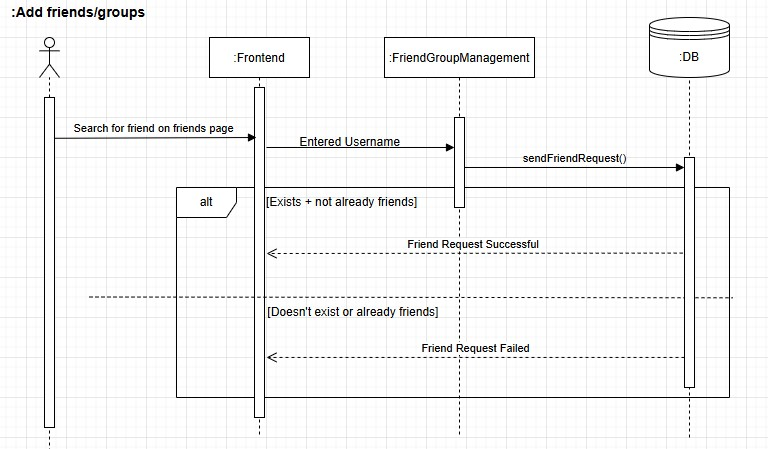
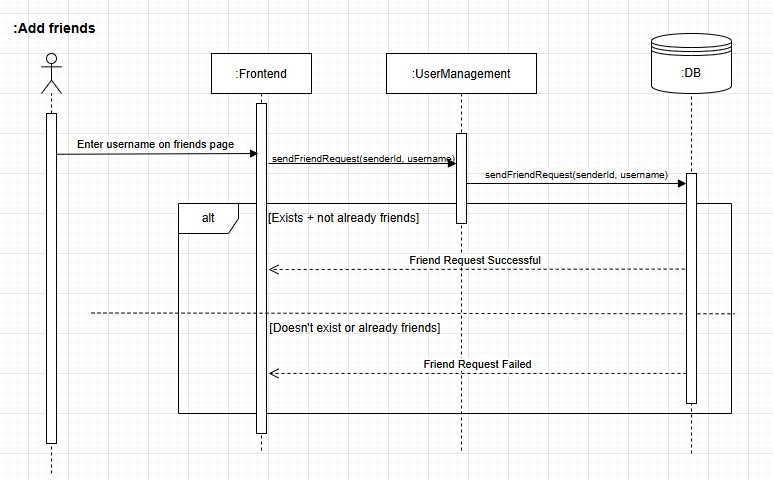
Updated documentation

diff --git a/documentation/M3_Requirements_and_Design.md b/documentation/M3_Requirements_and_Design.md
@@ -10,6 +10,10 @@
 | 2025-03-02 | 4.5 Dependencies Diagram | Changed component dependencies| Merged SessionsDB and UserDB into one DB for the entire system |
 | 2025-03-02 | 4.6 Functional Requirements Sequence Diagrams | Authentication sequence diagrams added | Log In and Sign Out sequence diagrams were added |
 |2025-03-15 | 3.5 Non-Functional Requirements | Added new non-functional requirements | Added new non-functional requirements for performance, reliability, and error recovery |
+|2025-03-30 | 3.1 Use Case Diagram | Use Case diagram modified | Corrected diagram to separate Manage Groups and Friends use case |
+|2025-03-30 | 4.1  Main Components | Modified Interfaces | Updated the interfaces to better align with implementation |
+|2025-03-30 | 4.5 Dependencies Diagram | Dependencies Diagram modified | Corrected diagram to only have Group Management |
+|2025-03-30 | 4.6 Functional Requirements Sequence Diagrams | Modified a few sequence diagrams | Modified a few sequence diagrams for Manage Sessions, Manage Friends, and Manage Groups use cases to better align with the updated components and interfaces |
 
 ## 2. Project Description
 
@@ -401,8 +405,8 @@ Study Wimme targets university students who seek a collaborative study environme
 
 ### **4.1. Main Components**
 
-1. **UserManagement**
-   - **Purpose**: Handles user authentication and profile management
+1. **User Management**
+   - **Purpose**: Handles profile management and user's friends list.
    - **Interfaces**:
      1. `UserID createProfile(UserDTO)` 
         - **Purpose**: Creates a new user profile
@@ -412,24 +416,27 @@ Study Wimme targets university students who seek a collaborative study environme
         - **Purpose**: Deletes the user’s profile
      4. `User viewProfile(UserID)` 
         - **Purpose**: Views the user’s profile
-2. **FriendGroupManagement**
-   - **Purpose**: Handles creation, modification, and deletion of groups. It also manages users' friends list
-   - **Interfaces**:
-     1. `void sendFriendRequest(SenderID, ReceiverID)` 
+     5. `void sendFriendRequest(SenderID, ReceiverID)` 
         - **Purpose**: Send friend request to another user
-     2. `void decideFriendRequest(Decision, SenderID, ReceiverID)` 
+     6. `void handleFriend(Decision, SenderID, ReceiverID)` 
         - **Purpose**: Adds user to friends list if accepted, otherwise remove the friend request
-     3. `List<Friend> getFriends(UserID)` 
+     7. `List<User> getFriends(UserID)` 
         - **Purpose**: Get all friends for user
-     4. `void deleteFriend(UserID, FriendID)` 
-        - **Purpose**: Delete a friend that the user has selected
-     5. `void createGroup(UserID, List<UserId> members)` 
-        - **Purpose**: Create a group using the friends user has selected
-     6. `void editGroup(UserID, GroupID, List<UserID> newGroupMembers)` 
+     8. `List<User> getFriendRequests(UserID)` 
+        - **Purpose**: Get all friend requests for user
+     9. `void removeFriend(UserID, FriendID)` 
+        - **Purpose**: Remove a friend that the user has selected
+
+2. **Group Management**
+   - **Purpose**: Handles the creation, modification, and deletion of groups.
+   - **Interfaces**:
+     1. `GroupID createGroup(UserID, name)` 
+        - **Purpose**: Create a group using the given group name
+     2. `void editGroup(GroupID, List<UserID> members)` 
         - **Purpose**: Make changes to an existing group
-     7. `void deleteGroup(UserID, GroupID)` 
+     3. `void deleteGroup(GroupID)` 
         - **Purpose**: Delete a preexisting group
-     8. `List<Group> getGroups(UserID)` 
+     4. `List<Group> getGroups(UserID)` 
         - **Purpose**: Get all groups made by that user
 
 3. **Session**
@@ -437,21 +444,15 @@ Study Wimme targets university students who seek a collaborative study environme
    - **Interfaces**:
       1. `SessionID createSession(SessionDTO)` 
           - **Purpose**: Creates new study session
-      2. `void updateSession(SessionID, SessionDTO)` 
-          - **Purpose**: Updates existing session details
-      3. `void deleteSession(SessionID)` 
+      2. `void deleteSession(SessionID)` 
           - **Purpose**: Deletes existing study session
-      4. `Session viewSession(SessionID)` 
-          - **Purpose**: View the details of a session
-      5. `boolean isUserJoined(UserId, SessionId)` 
-          - **Purpose**: Checks if User has joined a particular session
-      6. `void addUserToSession(UserID, SessionID)` 
+      3. `void joinSession(UserID, SessionID)` 
           - **Purpose**: Adds a user to the joined attribute of a session
-      7. `void removeUserFromSession(UserID, SessionID)` 
+      4. `void leaveSession(UserID, SessionID)` 
           - **Purpose**: Removes from a user from the joined attribute of a session
-      8. `void sendJoinNotificationToCreator(SessionId)` 
+      5. `void sendJoinNotificationToCreator(SessionId)` 
           - **Purpose**: Send notification to creator of session notifying that someone joins
-      9. `List<Session> getFilteredSessions(filters: FilterOptions)` 
+      6. `List<Session> getFilteredSessions(filters: FilterOptions)` 
           - **Purpose**: Retrieves sessions based on applied filters
 
 4. **Authentication**
@@ -463,9 +464,9 @@ Study Wimme targets university students who seek a collaborative study environme
         - **Purpose**: Checks if a user has completed their profile
      3. `void signOut(UserID)` 
         - **Purpose**: Signs out a user from the application
-     5. `DeviceToken registerDeviceToken(UserID, Token)` 
+     4. `DeviceToken registerDeviceToken(UserID, Token)` 
         - **Purpose**: Registers a device for push notifications
-     6. `void unregisterDeviceToken(DeviceToken)` 
+     5. `void unregisterDeviceToken(DeviceToken)` 
         - **Purpose**: Removes a device from receiving push notifications
       
 ### **4.2. Databases**

diff --git a/documentation/Testing_And_Code_Review.md b/documentation/Testing_And_Code_Review.md
@@ -204,7 +204,7 @@ We saw a slight decline in both statement and branch coverage when we ran our te
     | 6. The system deletes the session entry from the database | Check that hosted session is no longer visible in study list. |
     | 7. The system displays that the session has been deleted successfully | Check that hosted session is not visible in study list. Visual verification of Toast message.|
 
-- **Use Case: Manage account**
+- **Use Case: Manage profile**
   - **Test Case: Create Profile**
 
   - **Expected Behaviors:**
@@ -219,7 +219,7 @@ We saw a slight decline in both statement and branch coverage when we ran our te
     | 5. The inputted data gets populated in the database for that user. | Close and open profile again to verify entered fields were properly saved. |
     | 6. The system displays that the profile has been created successfully | Visual verification of displayed toast message. |
 
-- **Use Case: Manage account**
+- **Use Case: Manage profile**
   - **Test Case: Read Profile**
 
   - **Expected Behaviors:**
@@ -229,7 +229,7 @@ We saw a slight decline in both statement and branch coverage when we ran our te
     | 2. The system retrieves the actor’s profile information from the database | Verifies that expected fields (from creation) are shown correctly (since they come from the database) |
     | 3. The system displays information about their profile: username, year, and faculty | Verifies that expected fields (from creation) are shown correctly with expected values|
 
-- **Use Case: Manage account**
+- **Use Case: Manage profile**
   - **Test Case: Edit Profile**
 
   - **Expected Behaviors:**
